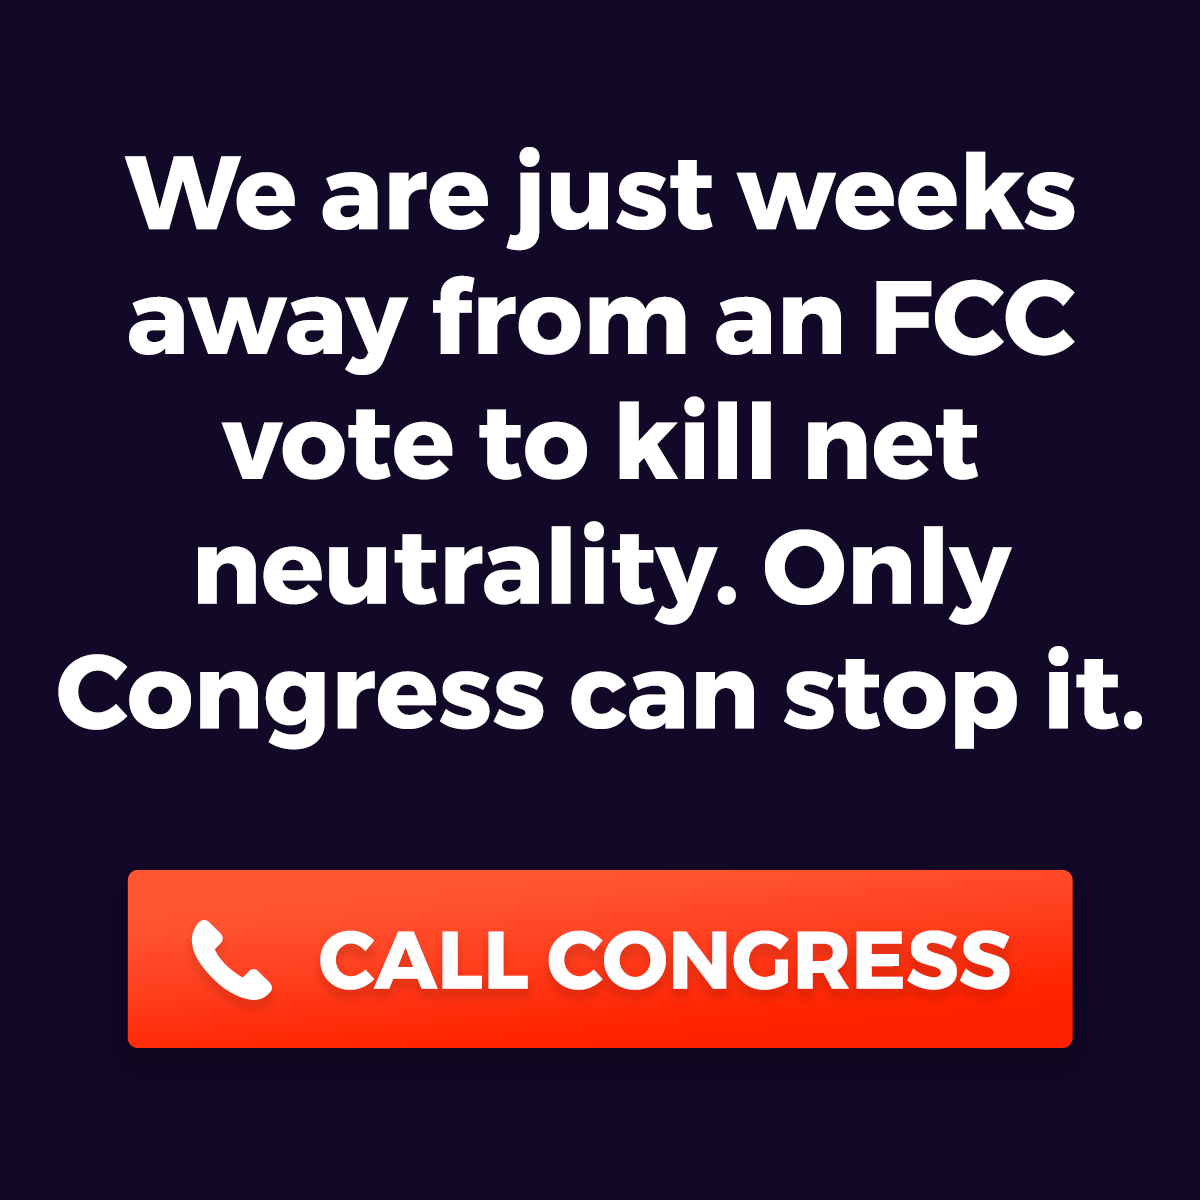
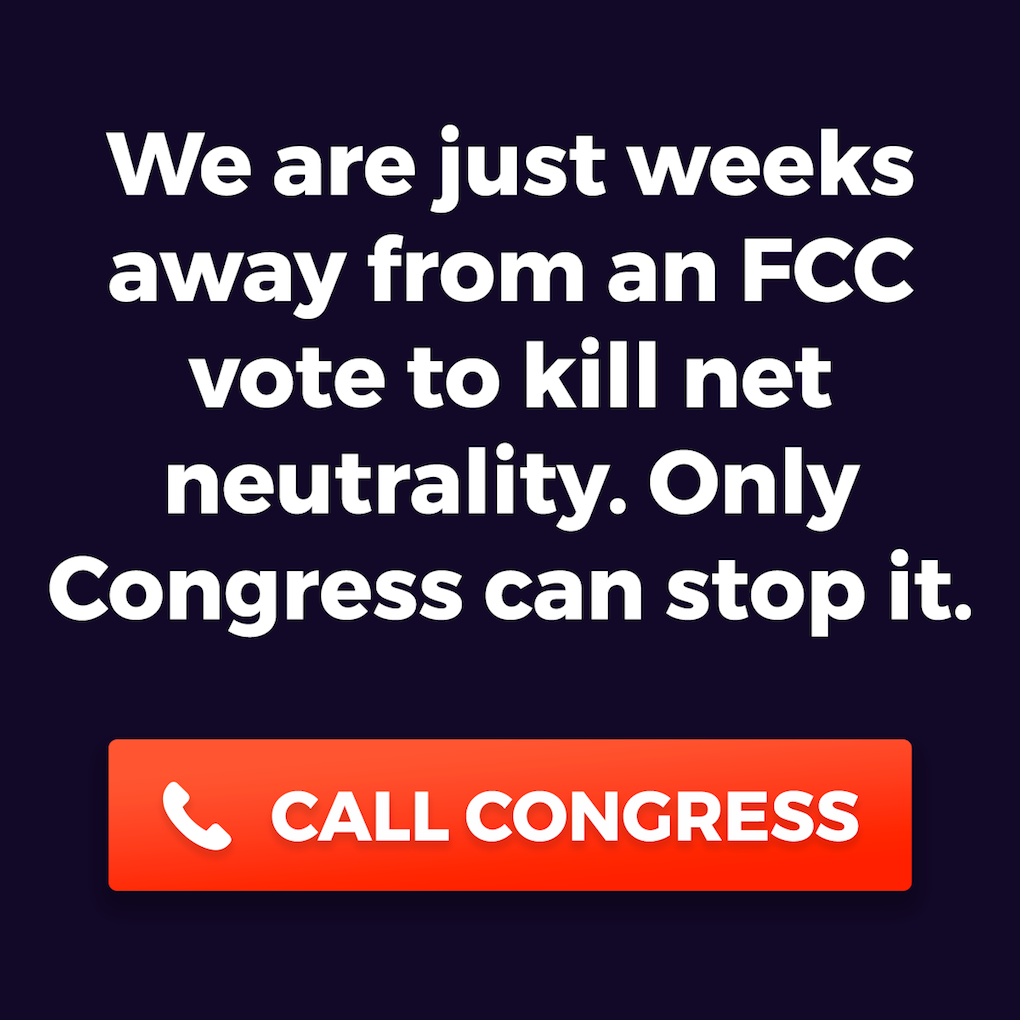
shrink it a bit

diff --git a/routes/img.ts b/routes/img.ts
@@ -34,7 +34,7 @@ router.get('/:id', (req: express.Request, res: express.Response, next: express.N
 									.webp()
 									.toBuffer();
 							}
-							if (metadata.width > 1200 && metadata.height > 1200) {
+							if (metadata.width > 1020 && metadata.height > 1020) {
 								return image
 									.webp()
 									.overlayWith(join(__dirname, '..', '..', 'public', 'sorrynotsorry.png'))
